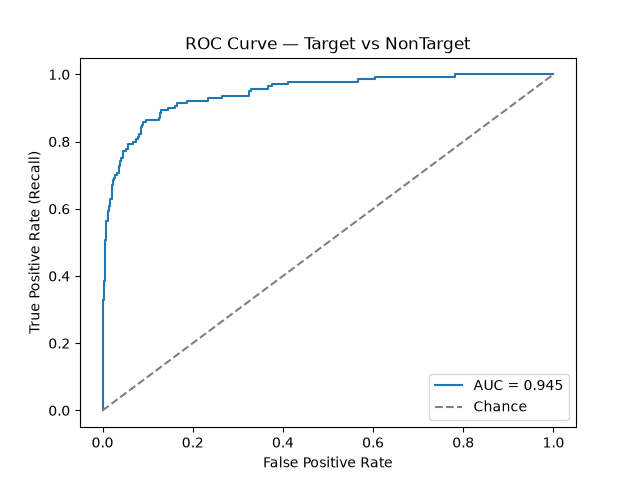
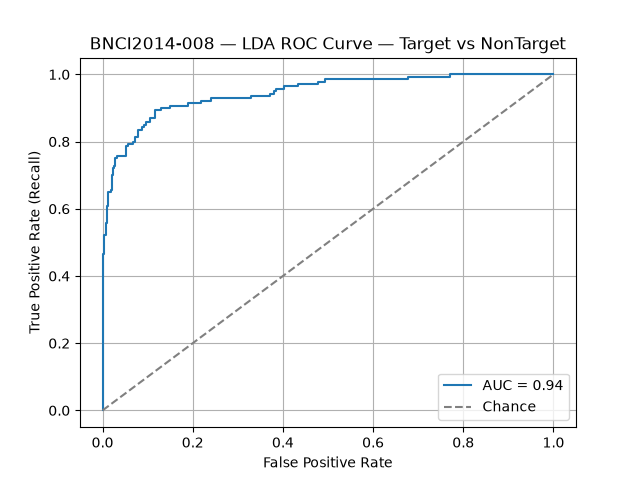
Enhance : Adding config module that help in Getting the root Folder

diff --git a/src/preprocessing/pipeline.py b/src/preprocessing/pipeline.py
@@ -1,31 +1,30 @@
 from pathlib import Path
 import hashlib
 import json
-import mne
+import mne # an open-source Python library for exploring, visualizing, and analyzing human neurophysiological data
 import numpy as np
 from mne.io.constants import FIFF
 from src.loaders.bnci2014_008 import load_bnci2014_008
+from src.config import config
 
-PROJECT_ROOT = Path(__file__).resolve().parents[2]
-PREPROCESSED_DATA_DIR = PROJECT_ROOT / "data" / "preprocessed"
-# The artifact threshold is configurable because the guide says to use the
-# "planned amplitude rule", but it does not define the numeric threshold.
+
+PROJECT_ROOT = config.PROJECT_ROOT
+PREPROCESSED_DATA_DIR = config.PREPROCESSED_DATA_DIR
+
+
 EVENT_CHANNEL = "Target stim"
-# BNCI2014-008 class codes in the MOABB loader:
-#   1 -> NonTarget
-#   2 -> Target
+
 EVENT_ID = {
     "NonTarget": 1,
     "Target": 2,
 }
 
-# Project-required band-pass.
+# Project-required band-pass Filter .
 L_FREQ = 0.1
 H_FREQ = 30.0
 
 # The public BNCI2014-008 distribution is already documented as having a
-# 50 Hz notch filter. We therefore keep the notch OFF by default to avoid
-# applying the same notch twice to an already filtered public signal.
+# 50 Hz notch filter. We therefore keep the notch OFF by default to avoid applying the same notch twice to an already filtered public signal.
 
 APPLY_NOTCH = False
 NOTCH_FREQ = 50.0
@@ -48,6 +47,7 @@ AMPLITUDE_DROP_REASON = "AMPLITUDE"
 TMIN = -0.2
 TMAX = 0.8
 
+
 EEG_CHANNELS = [
     "Fz",
     "Cz",
@@ -58,22 +58,6 @@ EEG_CHANNELS = [
     "PO7",
     "PO8",
 ]
-
-
-# def _print_event_counts(events: np.ndarray, event_id: dict) -> None:
-#     """Print Target/NonTarget counts in a readable way."""
-#     print("\n=== Event Verification ===")
-#
-#     for label, code in event_id.items():
-#         count = int(np.sum(events[:, 2] == code))
-#         print(f"[Record] {label}: {count}")
-#
-#     unexpected = sorted(set(np.unique(events[:, 2])) - set(event_id.values()))
-#     if unexpected:
-#         raise ValueError(
-#             f"Unexpected event codes found: {unexpected}. "
-#             "Check the event channel and dataset metadata."
-#         )
 
 
 def _verify_units(raw: mne.io.BaseRaw) -> None:
@@ -89,19 +73,13 @@ def _verify_units(raw: mne.io.BaseRaw) -> None:
     if not eeg_units:
         raise ValueError("No EEG channels were found.")
 
-    if any(unit != FIFF.FIFF_UNIT_V for unit in eeg_units):
-        raise ValueError(
-            "EEG channel units are not all volts (V). "
-            "Do not apply the artifact threshold until unit handling is verified."
-        )
+    for unit in eeg_units:
+        if unit != FIFF.FIFF_UNIT_V:
+            raise ValueError(
+                "EEG channel units are not all volts (V). "
+                "Do not apply the artifact threshold until unit handling is verified."
+            )
 
-    # print("\n=== Unit Verification ===")
-    # print("[Record] MNE EEG unit: volts (V)")
-    # print(
-    #     f"[Record] Artifact threshold: "
-    #     f"{ARTIFACT_THRESHOLD_UV:.1f} uV = "
-    #     f"{ARTIFACT_THRESHOLD_UV * 1e-6:.2e} V"
-    # )
 
 
 def _reject_by_absolute_amplitude(

diff --git a/src/config/config.py b/src/config/config.py
@@ -1,0 +1,11 @@
+from pathlib import Path
+
+def find_project_root(marker="Pipfile.lock"): ## The _name is a Python convention meaning private helper, only for use inside this file.
+    for parent in Path(__file__).resolve().parents: ## parents are returned as addresses
+        if (parent / marker).exists():
+            print(parent)
+            return parent
+    raise RuntimeError(f"Could not find {marker}")
+
+PROJECT_ROOT = find_project_root()
+PREPROCESSED_DATA_DIR = PROJECT_ROOT / "data" / "preprocessed"

diff --git a/src/config/__init__.py b/src/config/__init__.py
@@ -1,0 +1,1 @@
+"""Reproducible analyses for the EEG P300 project."""

diff --git a/results/environment_traceability.md b/results/environment_traceability.md
@@ -3,6 +3,9 @@
 Recorded for the verification run on 2026-10-23.
 
 - Python: `3.11.16`
+- Dependency lock: `Pipfile.lock`; `pipenv verify` reports the lock is up to date with `Pipfile`.
+- Locked direct dependencies: NumPy `2.4.6`, SciPy `1.17.1`, pandas `3.0.6`, MNE `1.13.2`, scikit-learn `1.9.1`, Matplotlib `3.11.2`, MOABB `1.7.2`, and pytest `9.1.1` (development dependency).
[1 lines of base64/hex data omitted]
 - Git commit: `71a7e85c77e0be6e5ee6befc13fc8cb12e93362a`
 - Source files: recorded against this commit; documentation and the generated test report may subsequently be updated in the working tree.
 - Release tag: none. `prehardware-v1.0` has not been created.
